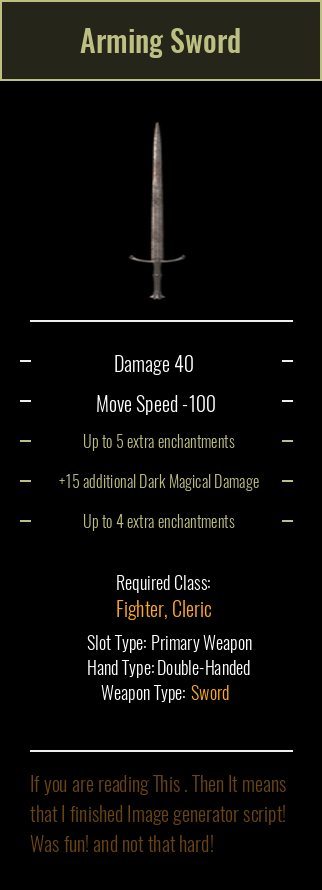
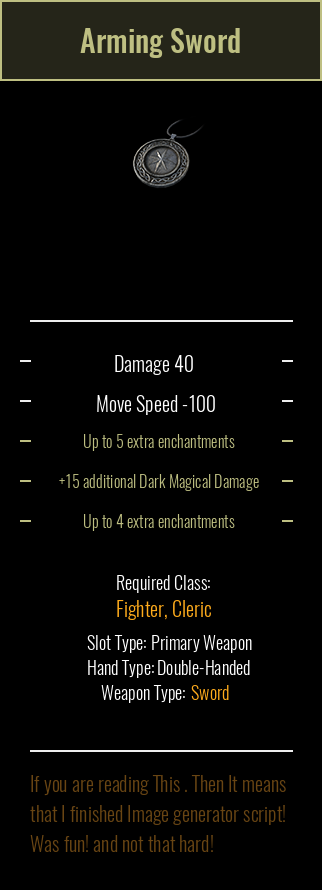
Updated image resize,

Changed region(s): [[0.4037, 0.1213, 0.5901, 0.3337]]

diff --git a/generator.py b/generator.py
@@ -73,7 +73,7 @@ def GenerateImage(_rarity, _ItemName, _itemImageFileName, _itemDamage, _moveSpee
         _moveItemOffset = len(_modifierList)*40
 
     height = 770 + _moveItemOffset
-# endregion
+# endregionf
 
 
 # region ASSIGN FONTS
@@ -113,10 +113,12 @@ def GenerateImage(_rarity, _ItemName, _itemImageFileName, _itemDamage, _moveSpee
 
     ItemImage = Image.open(f'{_itemImageFileName}',
                            mode='r')  # Opens Item image
+    w, h = ItemImage.size
     Resized_ItemImage = ItemImage.resize(
-        (100, 200))  # Resizes new imported Image
+        (w, h))  # Resizes new imported Image
+
     backgroundImage.paste(
-        Resized_ItemImage, (width//3, height//8), mask=Resized_ItemImage)  # Pastes Image on top of Background
+        Resized_ItemImage, (((width-w)//2), (height-h)//7), mask=Resized_ItemImage)  # Pastes Image on top of Background
 
 # endregion
 
@@ -181,7 +183,7 @@ def GenerateImage(_rarity, _ItemName, _itemImageFileName, _itemDamage, _moveSpee
 
             DrawLine(width-40, width-30, 440+modifierOffset,
                      backgroundImage, modifierColor)
-            print(f'{item}')
+
             modifierOffset = modifierOffset+40
 
 # endregion
@@ -265,7 +267,7 @@ def GenerateImage(_rarity, _ItemName, _itemImageFileName, _itemDamage, _moveSpee
 
 for rarity in RARITY:
 
-    GenerateImage(rarity, "Arming Sword", "sword.png", "Damage 40", "Move Speed -100",
+    GenerateImage(rarity, "Arming Sword", "neckles.png", "Damage 40", "Move Speed -100",
                   "Fighter, Cleric", "Primary Weapon",
                   "Double-Handed", "Sword",
                   "0.6s/0.56s/0.75s",
